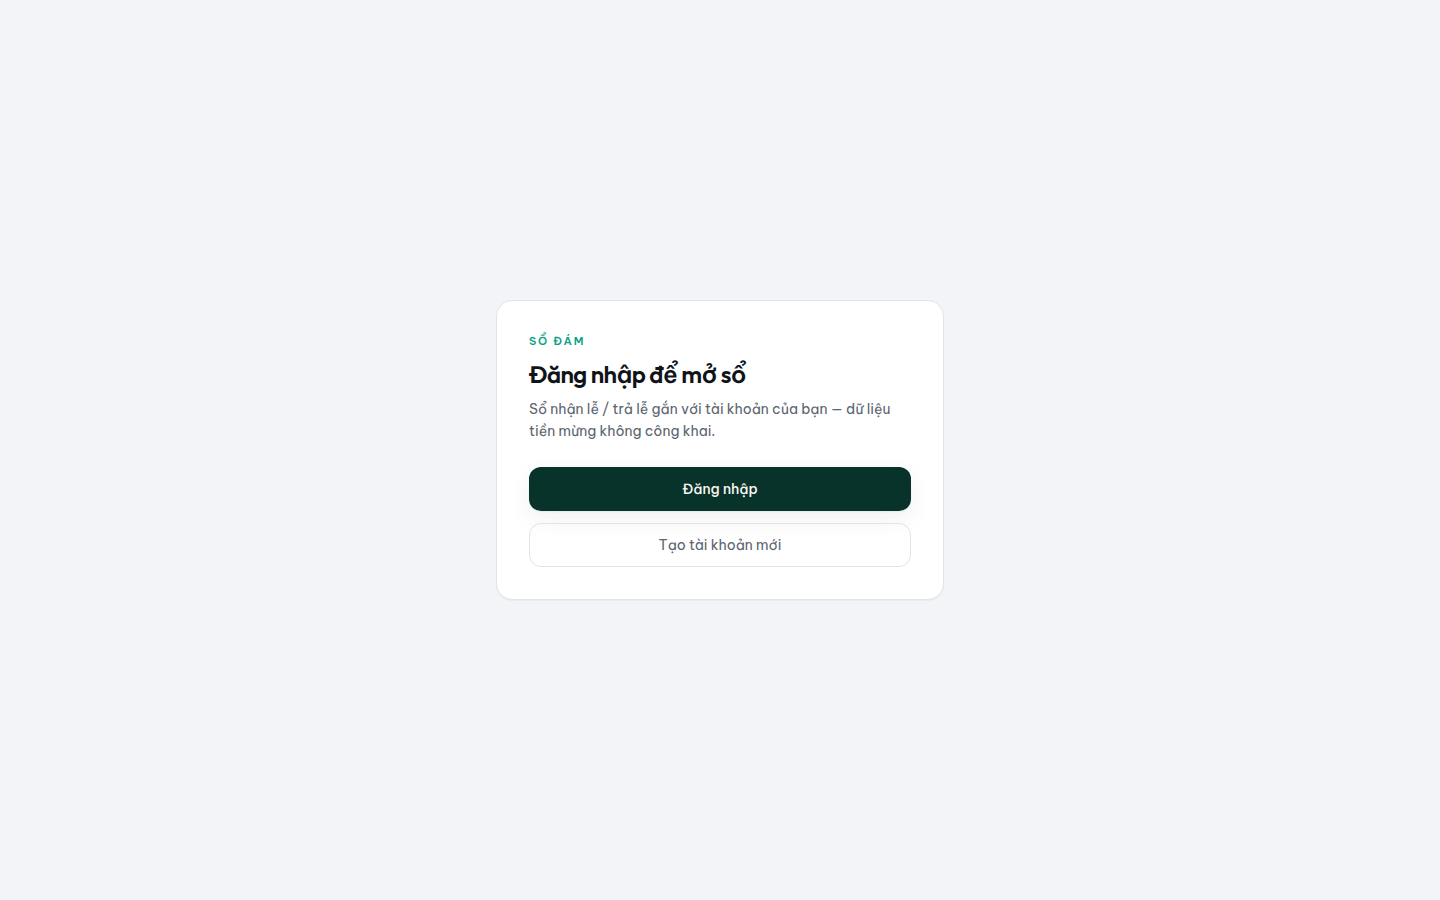
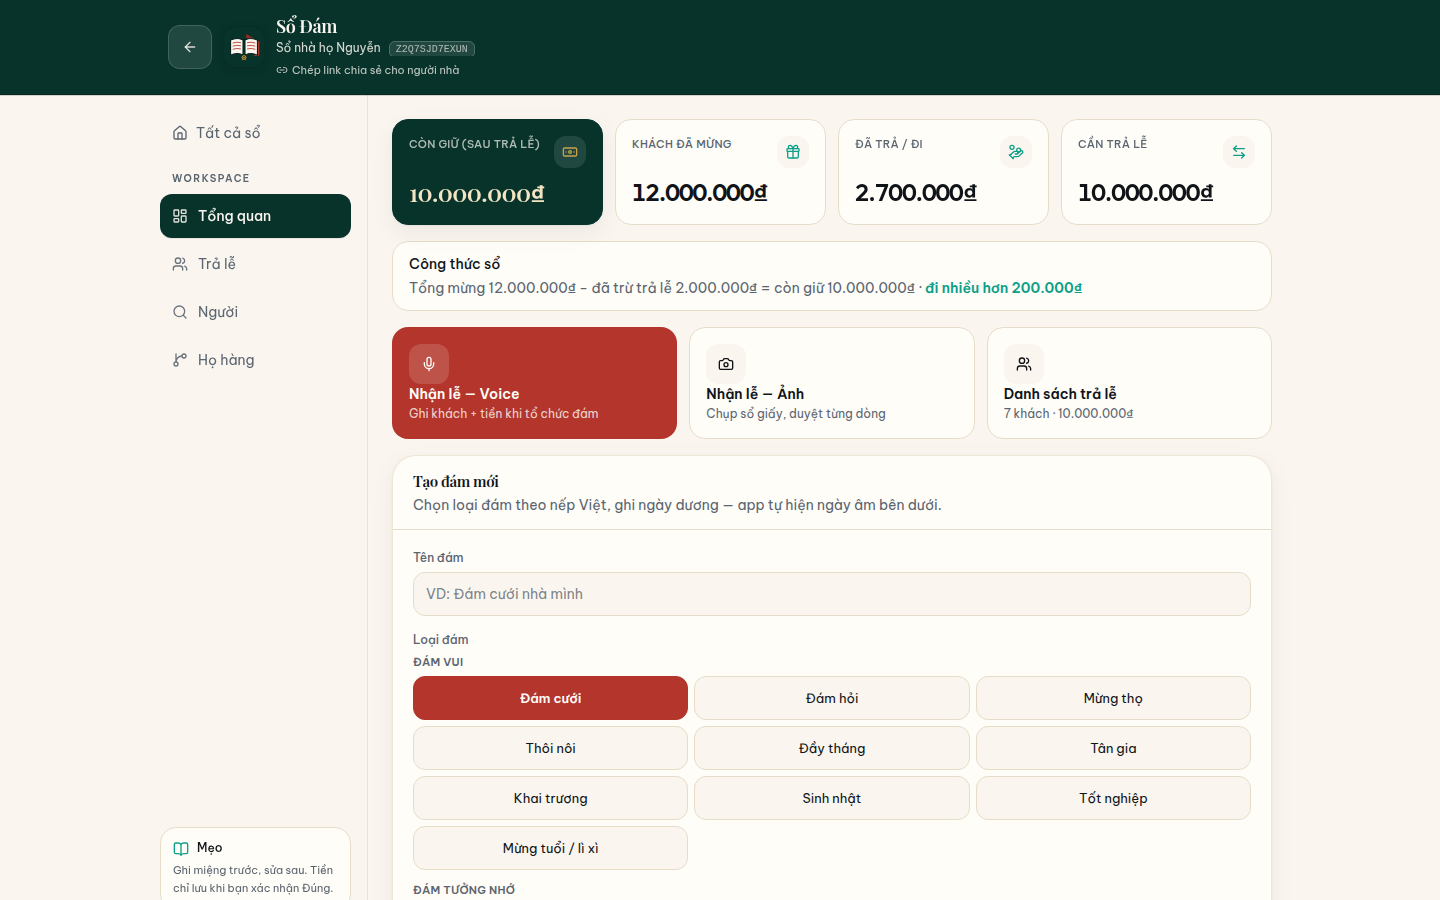
Screenshots: real populated no-login pack (dashboard, guest ledger, return list, event summary) with captioned README gallery

diff --git a/README.md b/README.md
@@ -17,9 +17,9 @@ code (or the share link) with family so everyone writes in the same book.
 Repository: https://github.com/changvn2002/sodam
 
 <p align="center">
-  <img src="docs/screenshots/sodam-desktop.png" alt="Sổ Đám — trang chủ sổ đám" width="900">
+  <img src="docs/screenshots/sodam-desktop.png" alt="Sổ Đám — dashboard of a real family book: 12.000.000 ₫ received, 10.000.000 ₫ still held, 10.000.000 ₫ waiting to be returned" width="900">
 </p>
-<p align="center"><em>Your family's ceremony gift ledger — voice input, photo extraction, return-gift tracking.</em></p>
+<p align="center"><em>The live dashboard of a real family book — guests gave 12.000.000 ₫, returns are tracked per guest, and there is no sign-in anywhere.</em></p>
 
 **Tóm tắt (Tiếng Việt):** Sổ Đám là sổ ghi lễ cho các đám của người Việt — cưới, đám hỏi,
 đám tang, giỗ, mừng thọ, tân gia… Ghi ai đã mừng bao nhiêu bằng tay, bằng giọng nói hoặc
@@ -51,15 +51,59 @@ ran as a client module talking to a NestJS backend.
 
 ## 🖼 Screenshots
 
-Real screenshots of the production deployment at https://sodam-tawny.vercel.app. The app
-opens straight into your books — no sign-in — and a book's data is only reachable with
-its invite code.
+Every screenshot below was captured from the live production deployment at
+https://sodam-tawny.vercel.app (the no-login build) with the app in a **real,
+populated state** — never an empty first-run screen. The book on screen is
+**"Sổ nhà họ Nguyễn"** (invite code `Z2Q7SJD7EXUN`), holding three events: a hosted
+wedding ("Cưới con gái Minh Anh", 18 Oct 2026) with six guests, a hosted death
+anniversary ("Giỗ ông nội"), and a wedding the family attended. Two return gifts have
+already been marked as returned — one of them 200.000 ₫ more than the guest
+originally gave.
 
-| Desktop (1440×900)                            | Mobile (390×844)                          |
-| --------------------------------------------- | ----------------------------------------- |
-| ![Desktop](docs/screenshots/sodam-desktop.png) | ![Mobile](docs/screenshots/sodam-mobile.png) |
-| Social / link-preview size (1280×640)         |                                           |
-| ![Social preview](docs/screenshots/sodam-social.png) |                                    |
+### Dashboard — the whole book at a glance
+
+![Desktop 1440×900 — dashboard of "Sổ nhà họ Nguyễn": 12.000.000 ₫ received, 10.000.000 ₫ still held after returns, 10.000.000 ₫ of returns still open](docs/screenshots/sodam-desktop.png)
+
+_After the three events, guests have given 12.000.000 ₫ in total ("Khách đã mừng").
+2.000.000 ₫ of it is already settled by return gifts, so the book still holds
+10.000.000 ₫ ("Còn giữ"); the family has paid out 2.700.000 ₫ in returns and
+attended-event gifts ("Đã trả / đi"), and 10.000.000 ₫ across 7 guests is still
+waiting to be returned ("Cần trả lễ"). The "Công thức sổ" line spells the maths out —
+including the 200.000 ₫ over-given part._
+
+| Mobile (390×844) | Social / link-preview (1280×640) |
+| --- | --- |
+| ![Mobile — the same dashboard stacked for phones, book totals on top](docs/screenshots/sodam-mobile.png) | ![Social — 1280×640 preview frame of the dashboard](docs/screenshots/sodam-social.png) |
+| _On a phone the four totals stack into a 2×2 grid above the formula line, with the bottom tab bar (Tổng quan / Trả lễ / Người / Họ hàng) always in reach._ | _The 1280×640 frame used when the app link is shared: the totals and the return-gift shortcut (7 guests · 10.000.000 ₫) are visible before the app even opens._ |
+
+### Step by step
+
+**Step 1 — Open the app, create a book.** No account, no sign-in: the home screen
+lists the books kept on this device — each with its invite code — next to the
+create-book and join-by-code panels. Anyone with the code (or the share link) writes
+in the same book. The season card counts 106 days to Tết Nguyên đán (6 Feb 2027).
+
+![Step 1 — home: "Sổ nhà họ Nguyễn" with invite code Z2Q7SJD7EXUN, create/join panels and the wedding-season card](docs/screenshots/gallery-01-tao-so.png)
+
+**Step 2 — Record who gave what.** Inside an event, every guest row shows the amount
+they gave plus its own return-gift form. Settled rows are badged "Đã trả lễ":
+Cậu Tư Lê Văn Đức gave 1.000.000 ₫ and was returned 1.200.000 ₫ — the app flags the
+200.000 ₫ over-given part instead of silently absorbing it into the totals.
+
+![Step 2 — guest ledger of the wedding: gift amounts, per-guest return forms, settled rows](docs/screenshots/gallery-02-ghi-le.png)
+
+**Step 3 — Work the return list.** The "Cần trả lễ" screen collects every open
+obligation across all events — here the gifts from the "Giỗ ông nội" anniversary
+(500.000 ₫, 500.000 ₫ and 1.000.000 ₫) — each with the amount to return, quick-pick
+amounts, and mark-done / skip actions.
+
+![Step 3 — open return obligations with per-guest amounts and mark-done actions](docs/screenshots/gallery-03-tra-le.png)
+
+**Step 4 — Every event keeps its own summary.** The wedding received 10.000.000 ₫
+from 6 guests; 2.000.000 ₫ is settled, 200.000 ₫ was over-given, and the solar date
+(18/10/2026) is shown together with its Vietnamese lunar date (9/9 âm lịch).
+
+![Step 4 — per-event summary for "Cưới con gái Minh Anh": received / kept / settled / over-given](docs/screenshots/gallery-04-tong-ket-su-kien.png)
 
 ## 🛠 Tech stack
 
